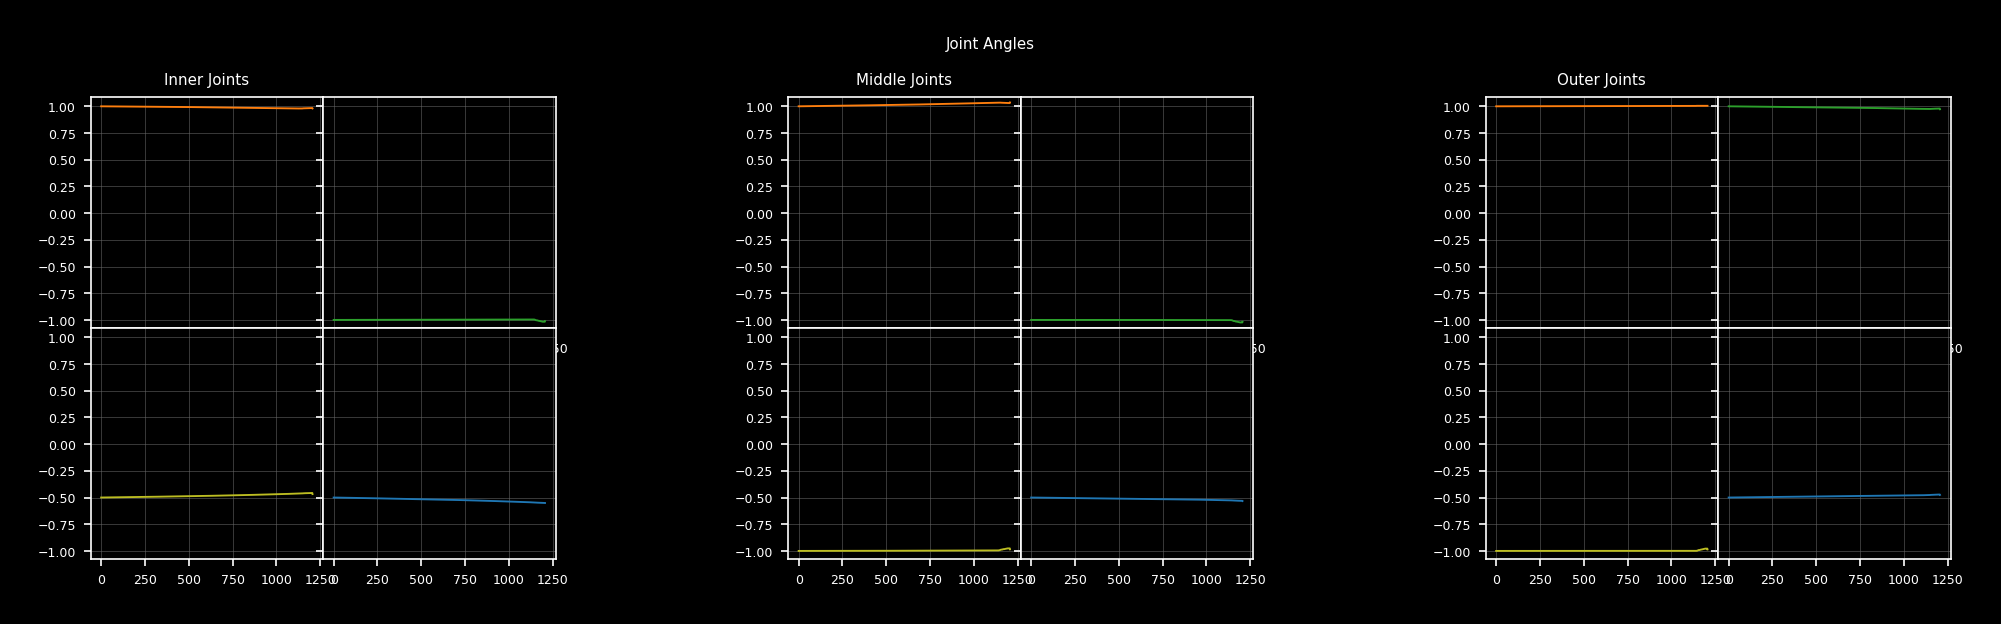
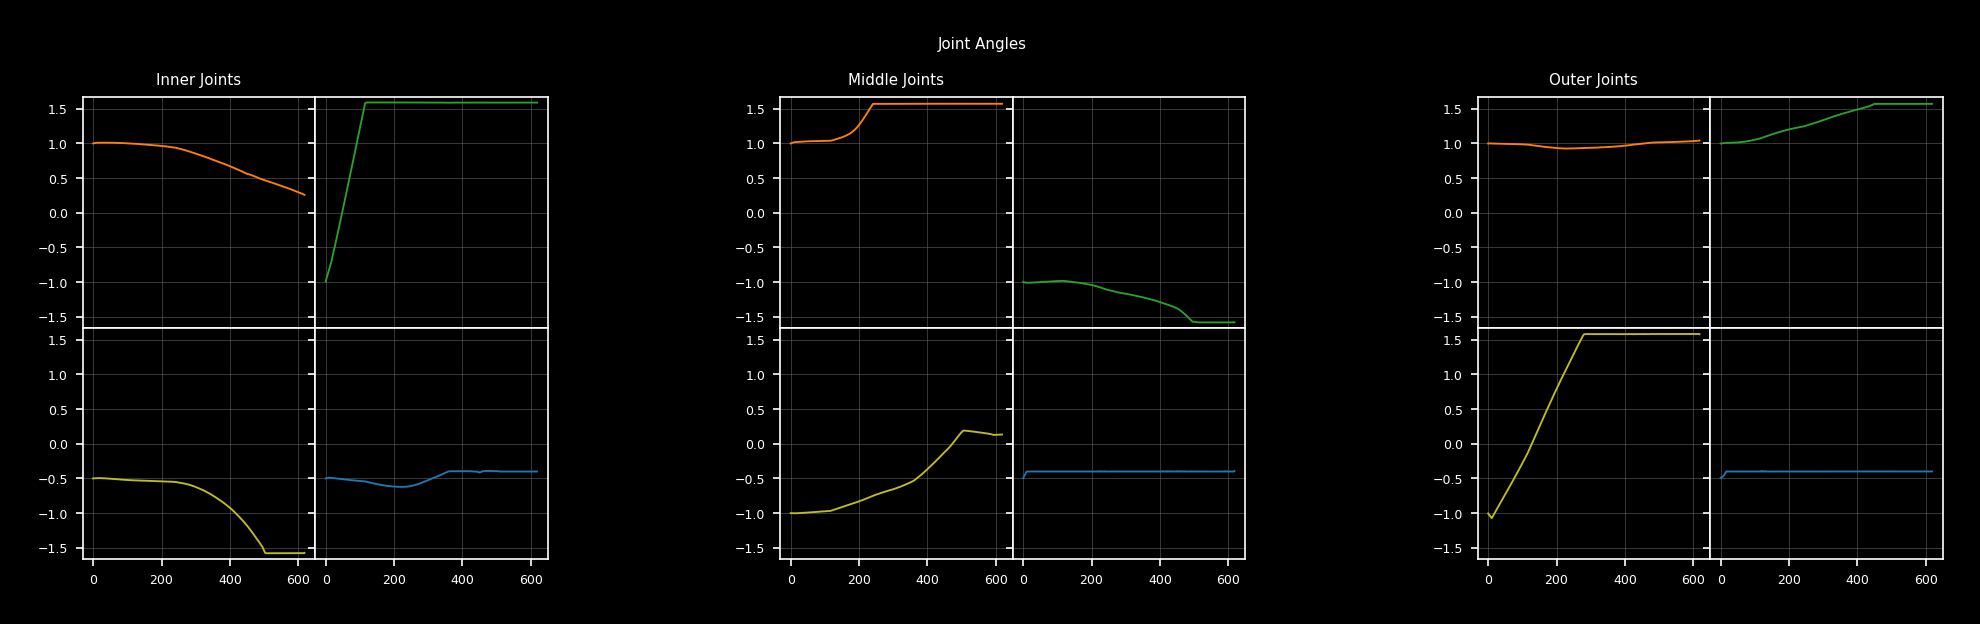
added inputs and modified architecture

diff --git a/spider_bot/environments.py b/spider_bot/environments.py
@@ -29,6 +29,7 @@ class SpiderBotSimulator(Env):
         
         self.plane_id = pb.loadURDF('plane.urdf')  # basic floor
         self.spider = SpiderBot(spider_bot_model_path)
+        self.max_spider_vel = 5
         
         spider_pos = self.spider.get_pos()
         self.camera = Camera(initial_pos = spider_pos)
@@ -42,17 +43,22 @@ class SpiderBotSimulator(Env):
         self.observation_space = spaces.Box(
             low = np.array([
                     *np.full(12, -self.spider.max_joint_angle),
-                    *np.full(12, -self.spider.nominal_joint_velocity)
+                    *np.full(12, -self.spider.nominal_joint_velocity),
+                    *np.full(3, -2*np.pi),
+                    *np.full(3, -self.max_spider_vel)
                 ]),
             high = np.array([
                     *np.full(12, self.spider.max_joint_angle),
-                    *np.full(12, self.spider.nominal_joint_velocity)
+                    *np.full(12, self.spider.nominal_joint_velocity),
+                    *np.full(3, 2*np.pi),
+                    *np.full(3, self.max_spider_vel)
                 ]),
         )
 
         self.initial_position = self.spider.get_pos()
         self.last_position = None
         self.curr_position = self.initial_position
+        self.velocity = np.zeros(3)
         
         self.i = 0
         self.t = 0
@@ -69,6 +75,7 @@ class SpiderBotSimulator(Env):
         pb.stepSimulation()
         pb.performCollisionDetection()
         self.current_position = self.spider.get_pos()
+        self.velocity = self.current_position - self.last_position
         
         if not self.fast_mode:
             time.sleep(1 / 240)
@@ -83,9 +90,12 @@ class SpiderBotSimulator(Env):
         
     def get_observation(self) -> np.array:
         joint_info = self.spider.get_joints_state(self.spider.joints_flat)
+        orientation = self.spider.get_orientation()
         return np.array([
             *joint_info['pos'],
-            *joint_info['vel']
+            *joint_info['vel'],
+            *orientation,
+            *self.velocity
         ])
 
     def get_distance_from_start(self):
@@ -97,7 +107,7 @@ class SpiderBotSimulator(Env):
         
         This means the score will be highest when moving in the right direction, irregardless of speed.
         """
-        velocity = (self.current_position - self.last_position)[:2]
+        velocity = self.velocity[:2]
         origin_to_bot = (self.last_position - self.initial_position)[:2]
         
         if not (origin_to_bot * velocity).sum():  # rewarded if moving
@@ -131,7 +141,7 @@ class SpiderBotSimulator(Env):
     
     def spider_is_standing(self):
         # returns !(there exists some point of contact involving a spider link thats not an outer leg)
-        return not any([p[3] not in self.spider.ankles for p in pb.getContactPoints(self.spider.id, self.plane_id)])
+        return not any([p[3] not in self.spider.ankles + self.spider.outer_joints for p in pb.getContactPoints(self.spider.id, self.plane_id)])
         
     def close(self) -> None:
         pb.disconnect()

diff --git a/driver.py b/driver.py
@@ -45,7 +45,7 @@ class Driver:
         self.modes[self.mode]()
 
     def train(self) -> None:
-        ev = Evolution(self.env, self.episode, gens=10)
+        ev = Evolution(self.env, self.episode, gens=25)
 
         currentdir = os.getcwd()
         config_path = os.path.join(currentdir, 'neat/neat_config')
@@ -59,11 +59,11 @@ class Driver:
 
     def test(self):
         model = self.load_model("neat_model")
-        agent = Agent(model, 24, 12)
-        self.episode(agent, terminate=False, eval=True, max_steps=0)
+        agent = Agent(model, 30, 12)
+        self.episode(agent, eval=True, verbose=True, max_steps=0)
         print('Done!')
 
-    def episode(self, agent: Agent, terminate: bool = True, max_steps: float = 10192, logging=False, eval=False) -> None:
+    def episode(self, agent: Agent, terminate: bool = True, verbose: bool = False, max_steps: float = 5096, logging=False, eval=False) -> None:
         i = 0
         done = False
         rewards = []
@@ -87,7 +87,10 @@ class Driver:
                 i += 1
         except KeyboardInterrupt:
             self.env.close()
-
+        fitness = self.calc_fitness(rewards, i)
+        if verbose:
+            ic('Done!')
+            ic(fitness)
         if eval:
             self.graph_data(
                 np.array(joint_pos).T,
@@ -96,13 +99,15 @@ class Driver:
                 np.array(joint_torques).T
             )
             
-        return self.calc_fitness(rewards, i)
+        return fitness
     
     def preprocess(self, observation: np.ndarray) -> np.ndarray:
-        pos, vel = np.split(observation, [12])
-        normal_pos = pos / self.env.spider.max_angle_range
-        normal_vel = vel / self.env.spider.nominal_joint_velocity
-        return np.array([*normal_pos, *normal_vel])
+        joint_pos, joint_vel, orientation, vel = np.split(observation, [12, 24, 27])
+        normal_joint_pos = joint_pos / self.env.spider.max_angle_range
+        normal_joint_vel = joint_vel / self.env.spider.nominal_joint_velocity
+        normal_orientation = orientation / (2 * np.pi)
+        normal_vel = vel / self.env.max_spider_vel
+        return np.array([*normal_joint_pos, *normal_joint_vel, *normal_orientation, *normal_vel])
 
     def log_state(self, observation: np.ndarray, controls: np.ndarray) -> None:
         pass

diff --git a/spider_bot/training.py b/spider_bot/training.py
@@ -34,7 +34,7 @@ class Evolution:
         return ic(winner_net)
 
     def eval_genomes(self, genomes, config):
-        for genome_id, genome in tqdm(genomes):
+        for genome_id, genome in tqdm(genomes, ascii=True):
             genome.fitness = 0
             net = neat.nn.FeedForwardNetwork.create(genome, config)
-            genome.fitness = self.fitness_function(Agent(net, 24, 12))
+            genome.fitness = self.fitness_function(Agent(net, 30, 12))

diff --git a/spider_bot/spider_bot_model.py b/spider_bot/spider_bot_model.py
@@ -61,7 +61,7 @@ class SpiderBot:
         return np.array(pb.getBasePositionAndOrientation(self.id)[0])
     
     def get_orientation(self):
-        return np.array(pb.getBasePositionAndOrientation(self.id)[1])
+        return np.array(pb.getEulerFromQuaternion(pb.getBasePositionAndOrientation(self.id)[1]))
     
     def set_joint_velocities(self, joint_indices, target_velocities):
         for i, target_velocity in zip(joint_indices, target_velocities):
